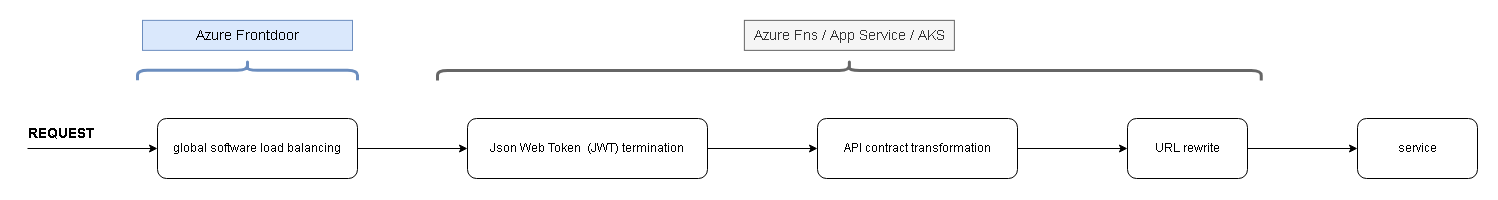
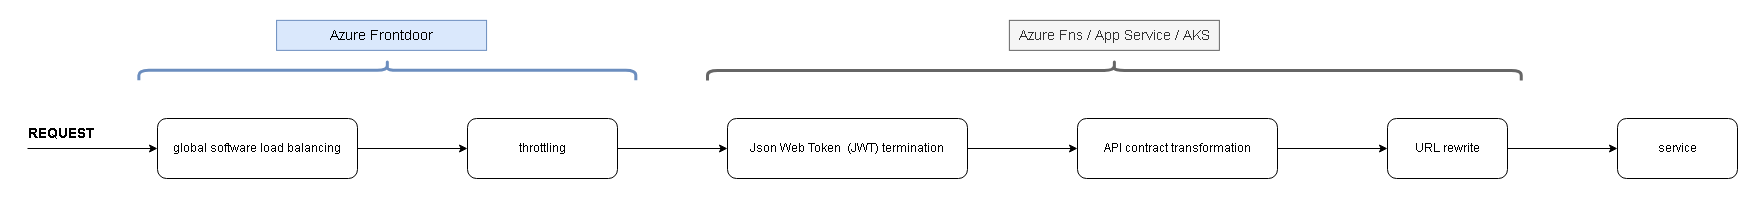
WIP

diff --git a/jwt-terminate/index.js b/jwt-terminate/index.js
@@ -1,13 +1,7 @@
+const jwt_decode = require("jwt-decode");
+
 module.exports = async function (context, req) {
-    context.log('JavaScript HTTP trigger function processed a request.');
-
-    const name = (req.query.name || (req.body && req.body.name));
-    const responseMessage = name
-        ? "Hello, " + name + ". This HTTP triggered function executed successfully."
-        : "This HTTP triggered function executed successfully. Pass a name in the query string or in the request body for a personalized response.";
-
     context.res = {
-        // status: 200, /* Defaults to 200 */
-        body: responseMessage
+        body: jwt_decode(/Bearer (.+)/.exec(req.headers.authorization)[1])
     };
 }

diff --git a/README.md b/README.md
@@ -1,13 +1,22 @@
-# Azure Front Door versus Azure API Management versus Azure Gateway
+# Adding Flexibility to an API on Azure
 
 In this write-up we'll cover usage of several Azure offerings in implementing an HTTP API, whereby the API is:
 
 - geo-redundant for speed, availability, and safe-deployments
+- throttle-able &mdash; controlling costs
 - terminates a Json Web Token (JWT) on the perimeter &mdash; freeing trusted internal services from authorizations
 - provides a placeholder for request and response payload rewrites &mdash; an API contract façade
 - abstracts concrete service location via URL rewrites
 
-The intention is to show where these Azure offerings can be of help in saving us implementation time.
+In other words, the API is static to the outside but flexible with respect to implementation.
+
+The intention is to think through three Azure offerings and see how they can be of help in saving us implementation time:
+
+- Azure Front Door
+- Azure API Management
+- Azure Application Gateway
+
+
 
 Consider an incoming HTTP request to serve some business need.  We want the implementation of this business logic to benefit from of all of the above value propositions; which cross-cut our API surface, without coupling to our business-logic implementation.
 
@@ -30,6 +39,12 @@ Finally, we won't detail out actual JWT transformation and we do not have any bu
 
 
 
+
+## Our Request
+
+```
+curl -H "Authorization: Bearer your_token" http://localhost:7071/api/jwt-terminate
+```
 
 
 
